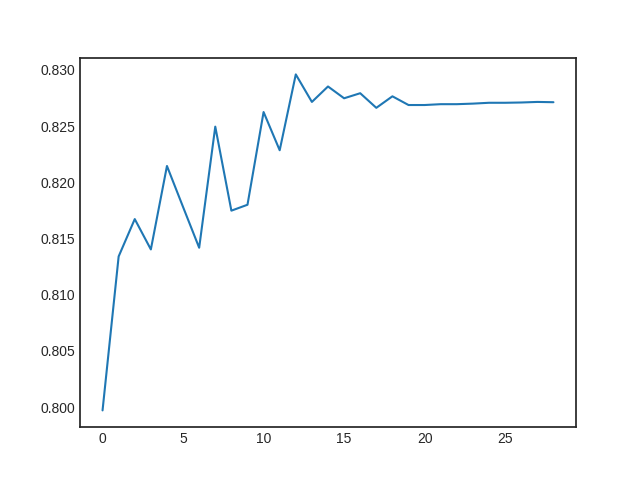
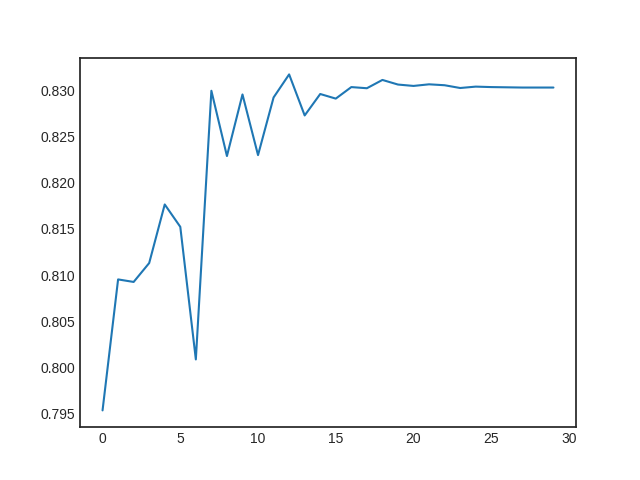
Implement ewc train for phoneme recognition

diff --git a/main_phone_lite.py b/main_phone_lite.py
@@ -57,7 +57,8 @@ config = {
     "model_save_interval": 50,
     "lr_tol": .5,
     "lrr": .5,
-    "lr_threshold": .00000001
+    "lr_threshold": .00000001,
+    "previous_random_sample_size": 200
 }
 
 config = AttributeDict(config)
@@ -158,57 +159,22 @@ best_model_state = model.state_dict()
 
 criterion = nn.CrossEntropyLoss()
 
-class EWC(object):
-    def __init__(self, model: nn.Module, dataset: list):
-
-        self.model = model
-        self.dataset = dataset
-
-        self.params = {n: p for n, p in self.model.named_parameters() if p.requires_grad}
-        self._means = {}
-        self._precision_matrices = self._diag_fisher()
-
-        for n, p in deepcopy(self.params).items():
-            self._means[n] = variable(p.data)
-
-    def _diag_fisher(self):
-        precision_matrices = {}
-        for n, p in deepcopy(self.params).items():
-            p.data.zero_()
-            precision_matrices[n] = variable(p.data)
-
-        self.model.eval()
-        for input in self.dataset:
-            self.model.zero_grad()
-            input = variable(input)
-            output = self.model(input).view(1, -1)
-            label = output.max(1)[1].view(-1)
-            loss = F.nll_loss(F.log_softmax(output, dim=1), label)
-            loss.backward()
-
-            for n, p in self.model.named_parameters():
-                precision_matrices[n].data += p.grad.data ** 2 / len(self.dataset)
-
-        precision_matrices = {n: p for n, p in precision_matrices.items()}
-        return precision_matrices
-
-    def penalty(self, model: nn.Module):
-        loss = 0
-        for n, p in model.named_parameters():
-            _loss = self._precision_matrices[n] * (p - self._means[n]) ** 2
-            loss += _loss.sum()
-        return loss
-
 def reset_runtime():
     lr = .001
     lr_below_threshold = False
     epoch_i = ep_start
     return lr, lr_below_threshold, epoch_i
 
-def train(train_domain, dev_domain, test_domain_previous_list):
+def train(train_domain, dev_domain, test_domain_previous_list, previous_dataset_list = []):
     lr, lr_below_threshold, epoch_i = reset_runtime()
     accuracies = [[] for i in range(len(test_domain_previous_list))]
     losses = [[] for i in range(len(test_domain_previous_list))]
+    
+    old_tasks = []
+    if len(previous_dataset_list) > 0:
+        for previous_dataset in previous_dataset_list:
+            old_tasks.append(previous_dataset.random_sample(config.previous_random_sample_size))
+
     while epoch_i < config.epochs and not lr_below_threshold:
         print("epoch: ", epoch_i)
         ####################
@@ -244,6 +210,9 @@ def train(train_domain, dev_domain, test_domain_previous_list):
             lab = pad2list(lab, batch_l)
             
             loss = criterion(class_out, lab)
+            
+            if len(old_tasks) > 0:
+                loss += 1000 * EWC(model, old_tasks, config).penalty(model)
 
             train_losses.append(loss.item())
             if config.use_gpu:
@@ -252,6 +221,7 @@ def train(train_domain, dev_domain, test_domain_previous_list):
                 tr_fer.append(compute_fer(class_out.data.numpy(), lab.data.numpy()))
 
             loss.backward()
+
             grad_norm = torch.nn.utils.clip_grad_norm_(model.parameters(), config.clip_thresh)
             optimizer.step()
 
@@ -289,6 +259,7 @@ def train(train_domain, dev_domain, test_domain_previous_list):
                 lab = Variable(lab)
 
             optimizer.zero_grad()
+            
             # Main forward pass
             class_out = model(batch_x, batch_l)
             class_out = pad2list(class_out, batch_l)
@@ -395,7 +366,7 @@ plt.savefig('losses_0_0.png')
 plt.clf()
 
 # *********************************** Domain 1 *********************************** #
-accuracies, losses = train(data_loader_train_domain1, data_loader_dev_domain1, [data_loader_test_domain0, data_loader_test_domain1])
+accuracies, losses = train(data_loader_train_domain1, data_loader_dev_domain1, [data_loader_test_domain0, data_loader_test_domain1], [dataset_domain0])
 
 accuracies_0_1 = accuracies_0_0 + accuracies[0]
 losses_0_1 = losses_0_0 + losses[0]
@@ -415,7 +386,7 @@ plt.savefig('losses_1_1.png')
 plt.clf()
 
 # *********************************** Domain 2 *********************************** #
-accuracies, losses = train(data_loader_train_domain2, data_loader_dev_domain2, [data_loader_test_domain0, data_loader_test_domain1, data_loader_test_domain2])
+accuracies, losses = train(data_loader_train_domain2, data_loader_dev_domain2, [data_loader_test_domain0, data_loader_test_domain1, data_loader_test_domain2], [dataset_domain0, dataset_domain1])
 
 accuracies_0_2 = accuracies_0_1 + accuracies[0]
 losses_0_2 = losses_0_1 + losses[0]
@@ -440,7 +411,7 @@ plt.savefig('losses_2_2.png')
 plt.clf()
 
 # *********************************** Domain 3 *********************************** #
-accuracies, losses = train(data_loader_train_domain3, data_loader_dev_domain3, [data_loader_test_domain0, data_loader_test_domain1, data_loader_test_domain2, data_loader_test_domain3])
+accuracies, losses = train(data_loader_train_domain3, data_loader_dev_domain3, [data_loader_test_domain0, data_loader_test_domain1, data_loader_test_domain2, data_loader_test_domain3], [dataset_domain0, dataset_domain1, dataset_domain2])
 
 accuracies_0_3 = accuracies_0_2 + accuracies[0]
 losses_0_3 = losses_0_2 + losses[0]
@@ -470,7 +441,7 @@ plt.savefig('losses_3_3.png')
 plt.clf()
 
 # *********************************** Domain 4 *********************************** #
-accuracies, losses = train(data_loader_train_domain4, data_loader_dev_domain4, [data_loader_test_domain0, data_loader_test_domain1, data_loader_test_domain2, data_loader_test_domain3, data_loader_test_domain4])
+accuracies, losses = train(data_loader_train_domain4, data_loader_dev_domain4, [data_loader_test_domain0, data_loader_test_domain1, data_loader_test_domain2, data_loader_test_domain3, data_loader_test_domain4], [dataset_domain0, dataset_domain1, dataset_domain2, dataset_domain3])
 
 accuracies_0_4 = accuracies_0_3 + accuracies[0]
 losses_0_4 = losses_0_3 + losses[0]

diff --git a/utils.py b/utils.py
@@ -14,10 +14,11 @@ def variable(t: torch.Tensor, use_cuda=True, **kwargs):
 
 
 class EWC(object):
-    def __init__(self, model: nn.Module, dataset: list):
+    def __init__(self, model: nn.Module, dataset: list, config):
 
         self.model = model
         self.dataset = dataset
+        self.config = config
 
         self.params = {n: p for n, p in self.model.named_parameters() if p.requires_grad}
         self._means = {}
@@ -28,23 +29,27 @@ class EWC(object):
 
     def _diag_fisher(self):
         precision_matrices = {}
+        torch.backends.cudnn.enabled = False
         for n, p in deepcopy(self.params).items():
             p.data.zero_()
-            precision_matrices[n] = variable(p.data)
+            precision_matrices[n] = p
 
         self.model.eval()
-        for input in self.dataset:
+        for input_data_number, input_data in enumerate(self.dataset):
             self.model.zero_grad()
-            input = variable(input)
-            output = self.model(input).view(1, -1)
+            input = variable(input_data[0])
+            output = self.model(input, torch.tensor([117] * self.config.previous_random_sample_size)).view(1, -1)
             label = output.max(1)[1].view(-1)
             loss = F.nll_loss(F.log_softmax(output, dim=1), label)
             loss.backward()
 
             for n, p in self.model.named_parameters():
-                precision_matrices[n].data += p.grad.data ** 2 / len(self.dataset)
+                if p.grad is not None:
+                    precision_matrices[n].data += p.grad.data ** 2 / len(self.dataset)
 
         precision_matrices = {n: p for n, p in precision_matrices.items()}
+        torch.backends.cudnn.enabled = True
+        self.model.train()
         return precision_matrices
 
     def penalty(self, model: nn.Module):

diff --git a/datasets.py b/datasets.py
@@ -1,6 +1,8 @@
 from os import listdir
 from os.path import join
 import pickle
+import random
+import numpy as np
 
 import torch
 from torch.utils import data
@@ -30,7 +32,12 @@ class nnetLoad(data.Dataset):
         return self.data.size(0)
     
     def __getitem__(self, index):
-        return self.data[index, : -1], self.data[index, -1]
+        return self.data[index, :-1], self.data[index, -1]
+
+    def random_sample(self, number_k):
+        all_indices = list(np.arange(0, self.data.shape[0]))
+        indexing_list = random.sample(all_indices, k=number_k)
+        return self.data[indexing_list, :-1], self.data[indexing_list, -1]
 
 class nnetDatasetSeq(data.Dataset):
 
